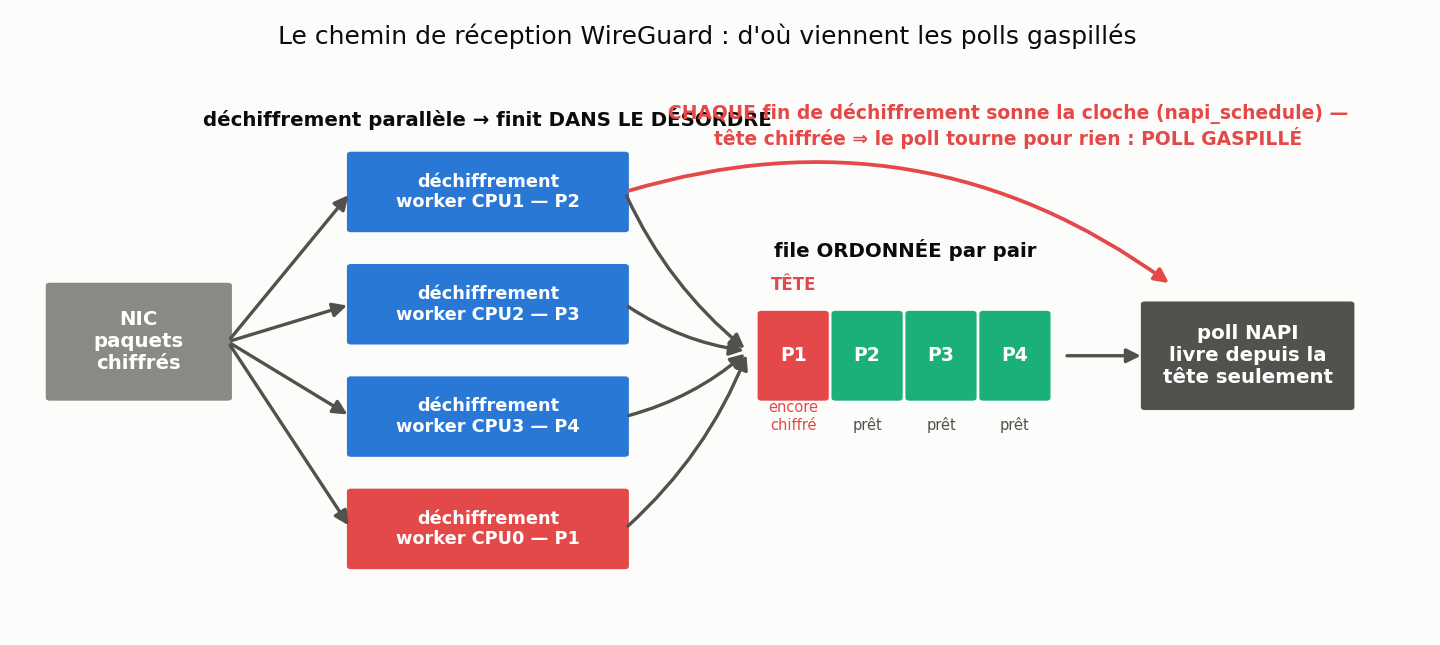
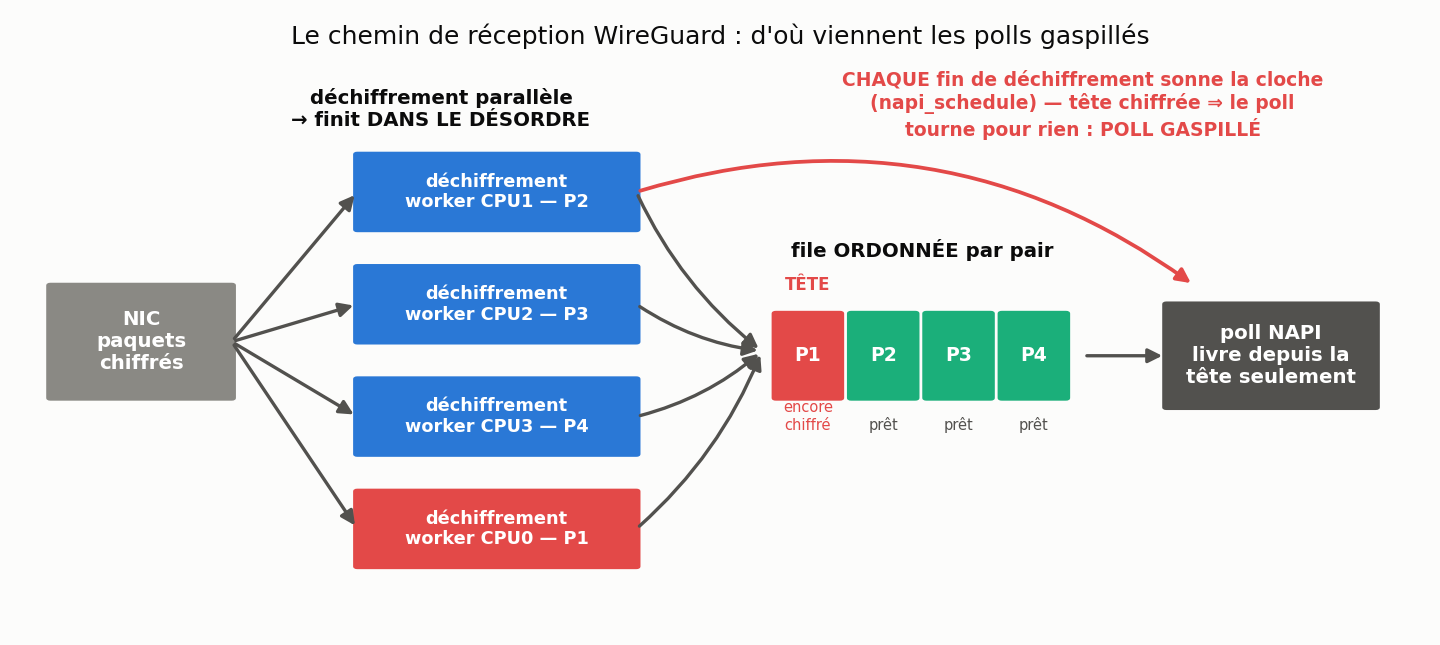
Figure pipeline FR : corrige le chevauchement des libelles
Le texte rouge (plus long en francais) empietait sur 'finit DANS LE
DESORDRE' : annotation rouge recomposee sur trois lignes plus etroites et
decalee a droite, libelle noir passe sur deux lignes et decale a gauche.

diff --git a/scripts/make_explainer_figs.py b/scripts/make_explainer_figs.py
@@ -286,7 +286,7 @@ def fig_pipeline_fr():
         c = RED if "P1" in lbl else BLUE
         box(ax, 24, y, 20, 8, f"déchiffrement\n{lbl}", c, fs=8.5)
         arrow(ax, 15, 30, 24, y+4)
-    ax.text(34, 53, "déchiffrement parallèle → finit DANS LE DÉSORDRE", fontsize=9.5,
+    ax.text(30, 53, "déchiffrement parallèle\n→ finit DANS LE DÉSORDRE", fontsize=9.5,
             color=INK, ha="center", fontweight="bold")
     qx, qy = 54, 24
     ax.text(qx+10.5, qy+15, "file ORDONNÉE par pair", fontsize=9.5, color=INK,
@@ -303,7 +303,7 @@ def fig_pipeline_fr():
     box(ax, 82, 23, 15, 11, "poll NAPI\nlivre depuis la\ntête seulement", INK2)
     arrow(ax, 76, 28.5, 82, 28.5)
     arrow(ax, 44, 46, 84, 36, color=RED, lw=1.8, con="arc3,rad=-0.25")
-    ax.text(72, 51, "CHAQUE fin de déchiffrement sonne la cloche (napi_schedule) —\ntête chiffrée ⇒ le poll tourne pour rien : POLL GASPILLÉ",
+    ax.text(76, 52, "CHAQUE fin de déchiffrement sonne la cloche\n(napi_schedule) — tête chiffrée ⇒ le poll\ntourne pour rien : POLL GASPILLÉ",
             fontsize=9, color=RED, ha="center", fontweight="bold")
     ax.set_title("Le chemin de réception WireGuard : d'où viennent les polls gaspillés",
                  fontsize=12, color=INK, pad=8)